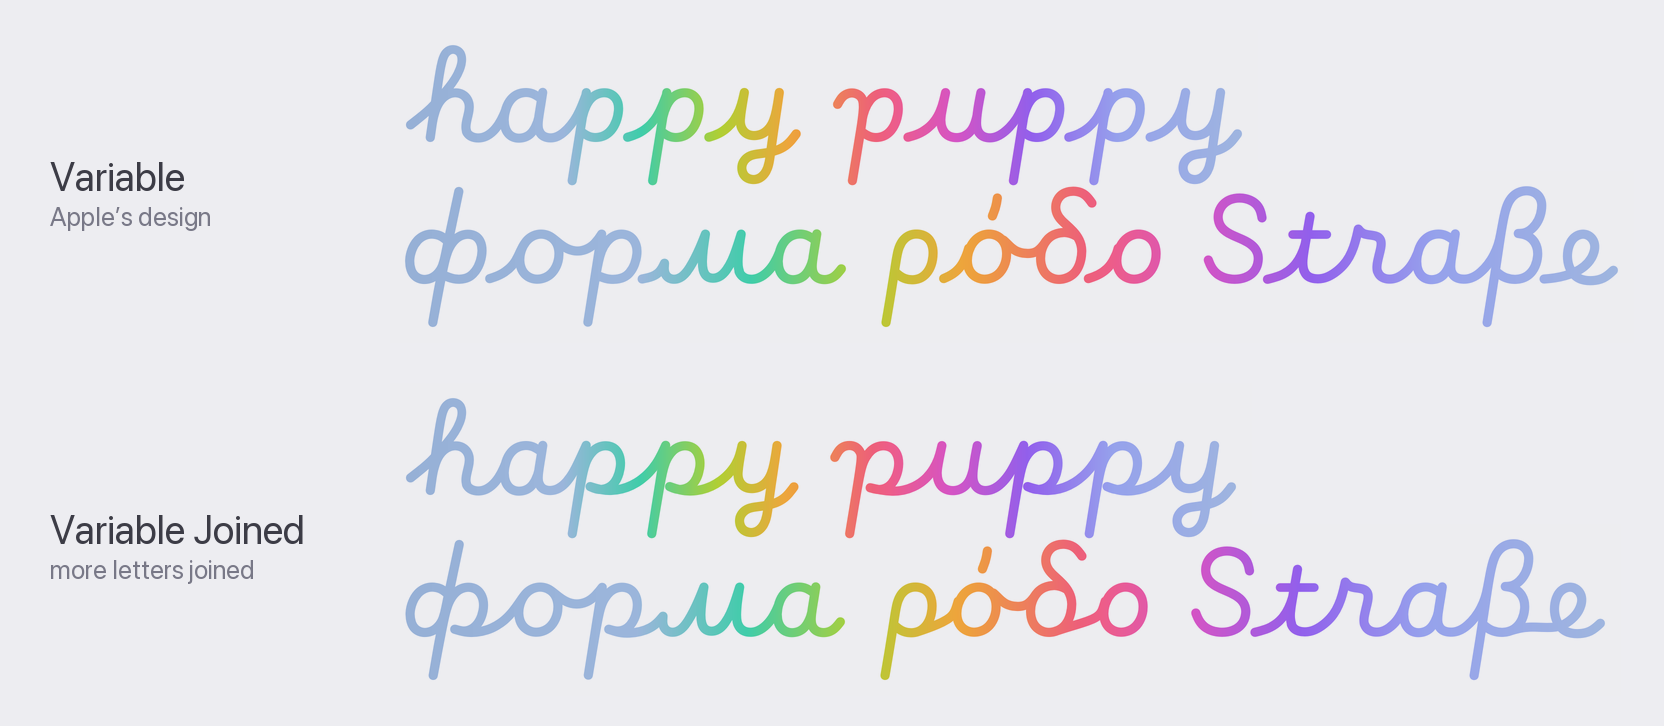
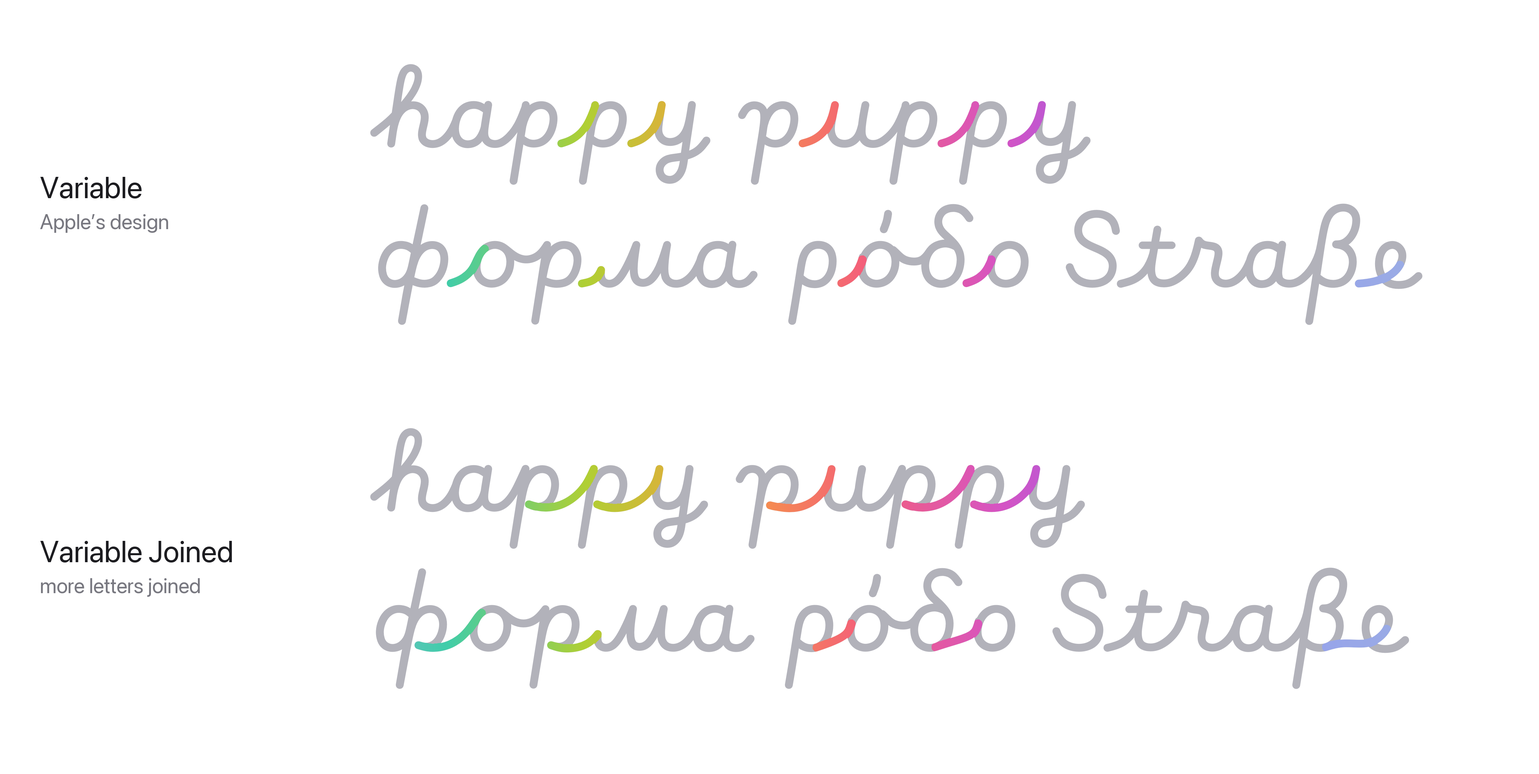
Highlight changed joins in the Joined comparison image

diff --git a/README.md b/README.md
@@ -53,6 +53,10 @@ the same result.
 
 ![Variable and Variable Joined](images/joined.png)
 
+The coloured strokes are the joins the Joined font changes. In Apple's design
+each is a short separate stroke that starts beside the letter; in the Joined
+font it sweeps out of the letter itself into the next one.
+
 In Apple's design, some letters don't join the letter after them. The pen
 lifts at the end of the letter, and the next letter starts on its own just
 beside it. At Apple's weight the two only just touch; at lighter weights you
